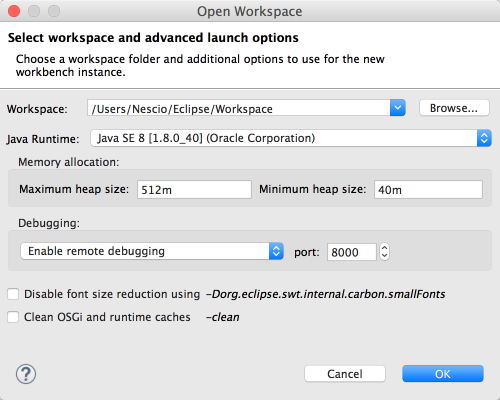
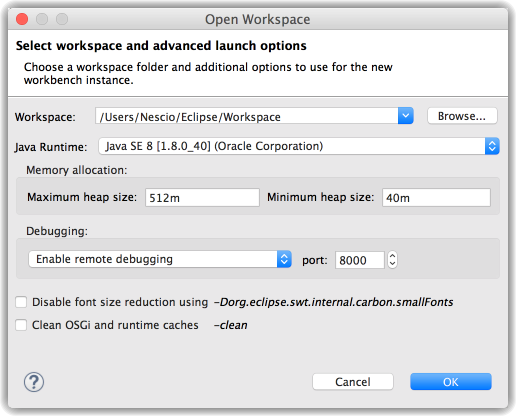
Add drop shadow to screenshots.

Changed region(s): [[0.0, 0.0, 1.0, 1.0], [0.51, 0.45, 0.81, 0.51]]

diff --git a/net.resheim.eclipse.launcher.tests/src/net/resheim/eclipse/launcher/core/LaunchOptionsDialogTest.java b/net.resheim.eclipse.launcher.tests/src/net/resheim/eclipse/launcher/core/LaunchOptionsDialogTest.java
@@ -22,6 +22,7 @@ import org.eclipse.swt.graphics.Image;
 import org.eclipse.swt.graphics.ImageData;
 import org.eclipse.swt.graphics.ImageLoader;
 import org.eclipse.swt.graphics.Rectangle;
+import org.eclipse.swt.widgets.Display;
 import org.eclipse.swt.widgets.Shell;
 import org.eclipse.swtbot.eclipse.finder.SWTWorkbenchBot;
 import org.eclipse.swtbot.swt.finder.junit.SWTBotJunit4ClassRunner;
@@ -34,6 +35,7 @@ import org.junit.runner.RunWith;
 @RunWith(SWTBotJunit4ClassRunner.class)
 public class LaunchOptionsDialogTest {
 
+	private static final int RADIUS = 16;
 	private static SWTWorkbenchBot bot;
 	/** Location for documentation screenshots */
 	private static File screenshotsDir;
@@ -83,13 +85,20 @@ public class LaunchOptionsDialogTest {
 		shell.getDisplay().asyncExec(new Runnable() {
 			@Override
 			public void run() {
+				// Grab a screenshot of the dialog shell
 				final Rectangle b = shell.getBounds();
+				final Image screenshot = new Image(shell.getDisplay(), b.width, b.height);
+				GC gc = new GC(shell.getDisplay());
+				gc.copyArea(screenshot, b.x, b.y);
+
+				// Create drop shadow image
+				final Image image = new Image(shell.getDisplay(), b.width + RADIUS, b.height + RADIUS);
+				GC gc2 = new GC(image);
+				fillRoundRectangleDropShadow(gc2, image.getBounds(), RADIUS);
+				gc2.drawImage(screenshot, RADIUS / 2, RADIUS / 2);
+
 				String text = shell.getText().replace(' ', '_') + ".png";
 				File file = new File(screenshotsDir, text);
-				final Image image = new Image(shell.getDisplay(), b.width, b.height);
-				GC gc = new GC(shell.getDisplay());
-				gc.copyArea(image, b.x, b.y);
-
 				ImageLoader loader = new ImageLoader();
 				loader.load(file.getAbsolutePath());
 
@@ -102,5 +111,19 @@ public class LaunchOptionsDialogTest {
 				gc.dispose();
 			}
 		});
+	}
+
+	public static void fillRoundRectangleDropShadow(GC gc, Rectangle bounds, int radius) {
+		gc.setAdvanced(true);
+		gc.setAntialias(SWT.ON);
+		gc.setBackground(Display.getCurrent().getSystemColor(SWT.COLOR_BLACK));
+		gc.setAlpha(0xff / radius);
+		for (int i = 0; i < radius; i++) {
+			Rectangle shadowBounds = new Rectangle(bounds.x + i, bounds.y + i, bounds.width - (i * 2),
+					bounds.height - (i * 2));
+			gc.fillRoundRectangle(shadowBounds.x, shadowBounds.y, shadowBounds.width, shadowBounds.height, radius * 2,
+					radius * 2);
+		}
+		gc.setAlpha(0xff);
 	}
 }

diff --git a/README.md b/README.md
@@ -9,9 +9,7 @@ Now with all these Eclipse instances up and running it is probably a good idea t
 
 Additionaly it is possible to use the **Advanced...** menu item that allowing you to specify launch options when opening a new workspace. Using this you can easily debug a new instance of the running IDE without creating a launch configuration.
 
-<img src="https://raw.github.com/turesheim/eclipse-utilities/master/images/Open_Workspace.png" width="66%" style="-webkit-box-shadow: 0px 0px 8px 1px rgba(0,0,0,0.75);
--moz-box-shadow: 0px 0px 8px 1px rgba(0,0,0,0.75);
-box-shadow: 0px 0px 8px 1px rgba(0,0,0,0.75);"/>
+<img src="https://raw.github.com/turesheim/eclipse-utilities/master/images/Open_Workspace.png" width="400px"/>
 
 Note that OS X 10.6 or newer is required as this feature relies on the [open](http://developer.apple.com/library/mac/#documentation/Darwin/Reference/ManPages/man1/open.1.html) command's ability to pass on arguments.
 
